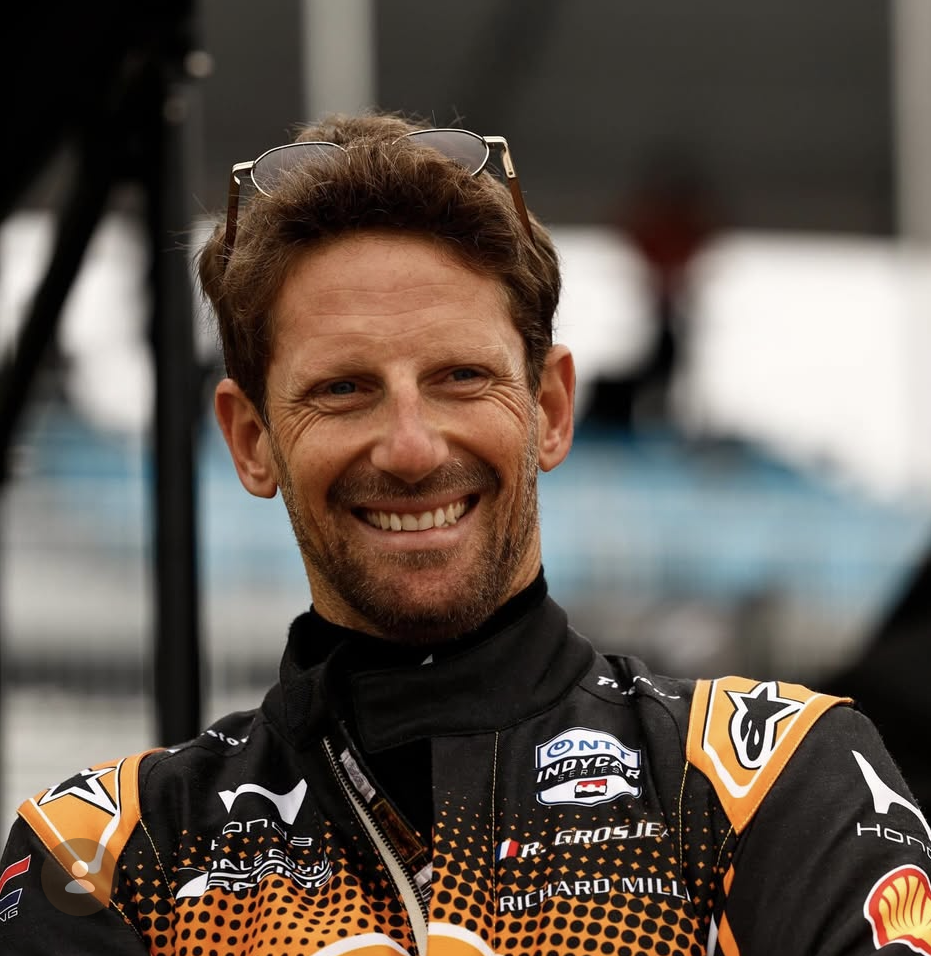
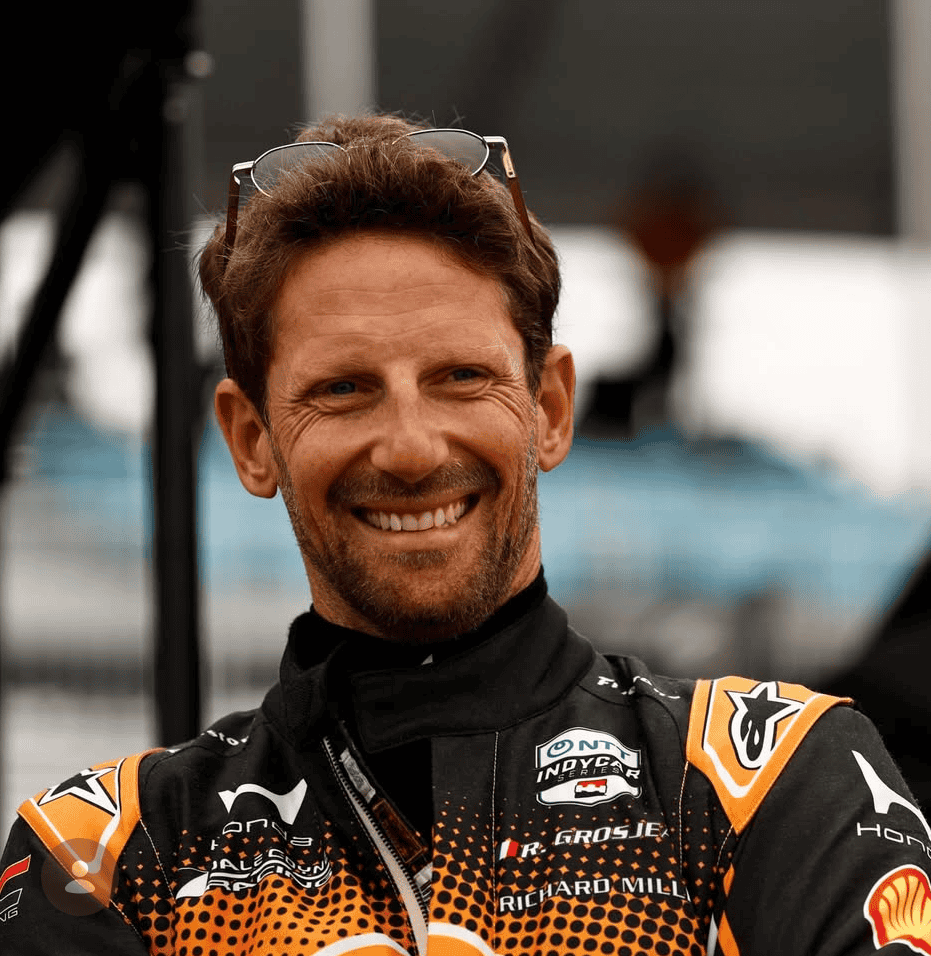
Replace ESTX Venture GmbH with ESTX Georgia LLC as sole operator (footer, FAQ, contacts, legal pages, EN+DE); compress brand images

diff --git a/index.html b/index.html
@@ -860,11 +860,11 @@ option{background:#0a1628;}
         <div style="display:flex;flex-direction:column;gap:18px;">
           <div style="display:flex;gap:14px;align-items:center;">
             <div style="width:42px;height:42px;background:rgba(255,255,255,0.07);border:1px solid rgba(255,255,255,0.1);border-radius:10px;display:flex;align-items:center;justify-content:center;flex-shrink:0;"><svg width="17" height="17" viewBox="0 0 24 24" fill="none" stroke="rgba(255,255,255,0.6)" stroke-width="2"><path d="M21 10c0 7-9 13-9 13s-9-6-9-13a9 9 0 0118 0z"/><circle cx="12" cy="10" r="3"/></svg></div>
-            <div><div style="font-size:0.72rem;color:rgba(255,255,255,0.35);margin-bottom:2px;" data-i18n="contact_office_label">Registered Office</div><div style="font-size:0.88rem;color:rgba(255,255,255,0.8);">Bangarten 10, FL-9490 Vaduz, Liechtenstein</div></div>
+            <div><div style="font-size:0.72rem;color:rgba(255,255,255,0.35);margin-bottom:2px;" data-i18n="contact_office_label">Registered Office</div><div style="font-size:0.88rem;color:rgba(255,255,255,0.8);" data-i18n="contact_office_value">Avtomshenebeli St. N 88 (Plot N01/298), Free Industrial Zone, Kutaisi, Georgia</div></div>
           </div>
           <div style="display:flex;gap:14px;align-items:center;">
             <div style="width:42px;height:42px;background:rgba(255,255,255,0.07);border:1px solid rgba(255,255,255,0.1);border-radius:10px;display:flex;align-items:center;justify-content:center;flex-shrink:0;"><svg width="17" height="17" viewBox="0 0 24 24" fill="none" stroke="rgba(255,255,255,0.6)" stroke-width="2"><path d="M12 22s8-4 8-10V5l-8-3-8 3v7c0 6 8 10 8 10z"/></svg></div>
-            <div><div style="font-size:0.72rem;color:rgba(255,255,255,0.35);margin-bottom:2px;" data-i18n="contact_reg_label">Regulatory</div><div style="font-size:0.88rem;color:rgba(255,255,255,0.8);" data-i18n="contact_reg_value">VASP License · ESTX Georgia LLC · Georgia</div></div>
+            <div><div style="font-size:0.72rem;color:rgba(255,255,255,0.35);margin-bottom:2px;" data-i18n="contact_reg_label">Regulatory</div><div style="font-size:0.88rem;color:rgba(255,255,255,0.8);" data-i18n="contact_reg_value">ESTX Georgia LLC · VASP License L37-2026 · National Bank of Georgia</div></div>
           </div>
         </div>
       </div>
@@ -941,7 +941,7 @@ option{background:#0a1628;}
     </div>
 
     <div style="padding:20px 0;border-top:1px solid rgba(255,255,255,0.06);margin-bottom:16px;">
-      <p style="font-size:0.73rem;color:rgba(255,255,255,0.22);line-height:1.7;" data-i18n-html="footer_legal"><strong style="color:rgba(255,255,255,0.35);">ESTX Venture GmbH</strong> — Bangarten 10, FL-9490 Vaduz, Liechtenstein. Operated under license by <strong style="color:rgba(255,255,255,0.35);">ESTX Georgia LLC</strong> (License number: L37-2026 / Registration number: 412800036), incorporated in Georgia, Kutaisi city, Avtomshenebeli Street N 88. Trading involves significant risk.</p>
+      <p style="font-size:0.73rem;color:rgba(255,255,255,0.22);line-height:1.7;" data-i18n-html="footer_legal"><strong style="color:rgba(255,255,255,0.35);">ESTX Georgia LLC</strong> — Avtomshenebeli St. N 88 (Plot N01/298), Free Industrial Zone, Kutaisi, Georgia. Regulated as a Virtual Asset Service Provider by the National Bank of Georgia (VASP License L37-2026 · Registration number 412800036). ESTX Georgia LLC directly provides and operates the platform infrastructure, exchange services, and custody. Trading involves significant risk.</p>
     </div>
     <div style="display:flex;justify-content:space-between;flex-wrap:wrap;gap:8px;">
       <div style="font-size:0.72rem;color:rgba(255,255,255,0.18);">© 2026 ESTX Exchange. All rights reserved.</div>
@@ -1077,7 +1077,7 @@ loadMarkets();
 const FAQS=[
   {q:'What is ESTX Exchange?',a:'ESTX is a regulated digital asset exchange that stands apart from conventional crypto platforms. While we support all major cryptocurrencies like BTC, ETH, SOL, XRP, and BNB, our core focus is on listing new token projects, curated memecoins, and security tokens. Our unique three-tier market structure — Venture, Market, and Prime — provides clear segmentation for different asset classes and investor profiles.'},
   {q:'How is ESTX different from Binance, Coinbase or other exchanges?',a:'ESTX is specifically designed to serve projects and communities that are underserved by major exchanges. We provide an accessible, structured listing path for token issuers who cannot afford the high fees and long waiting periods at platforms like Binance or Coinbase — while maintaining rigorous screening to ensure project quality and legitimacy. Our three-tier structure gives every project the right market environment.'},
-  {q:'Is ESTX a regulated exchange?',a:'Yes. ESTX is operated and managed by ESTX Venture GmbH, headquartered at Bangarten 10, FL-9490 Vaduz, Liechtenstein. The exchange operates under a Virtual Assets Service Provider (VASP) license held by ESTX Georgia LLC (License number: L37-2026), a company incorporated in Georgia with Registration Number 412800036. This ensures full regulatory compliance and operational transparency.'},
+  {q:'Is ESTX a regulated exchange?',a:'Yes. ESTX.Exchange is operated by ESTX Georgia LLC, a company incorporated in Georgia (Registration number 412800036) with its registered office at Avtomshenebeli St. N 88 (Plot N01/298), Free Industrial Zone, Kutaisi, Georgia. ESTX Georgia LLC is regulated as a Virtual Asset Service Provider (VASP) by the National Bank of Georgia under license number L37-2026, and directly provides and operates the platform infrastructure, exchange services, and custody. This ensures full regulatory compliance and operational transparency.'},
   {q:'How can I buy cryptocurrency on ESTX?',a:'Getting started is simple: (1) Create an account with your email and country of residence, (2) Complete identity verification (KYC) by uploading required documents, (3) Add your payment method — credit card, debit card, or bank transfer, (4) Start buying Bitcoin, Ethereum, Solana and 200+ other cryptocurrencies using USD, EUR, GBP, AUD, and over 48 additional local currencies.'},
   {q:'What is the ESTX Token?',a:'The ESTX Token is the native utility token of the ESTX Exchange ecosystem. Token holders benefit from reduced trading fees, governance participation, exclusive access to new token listings and launchpad events, and staking rewards. The official ESTX Token launch is scheduled for October 15, 2026.'},
   {q:'How do I list my token on ESTX?',a:'ESTX provides an accessible and structured listing process. Visit our "Apply for Listing" page to submit your project for review. Our team evaluates every submission through a comprehensive screening process — covering project legitimacy, team background, tokenomics, and community — before approving listings on the appropriate market tier (Venture, Market, or Prime).'},
@@ -1432,7 +1432,7 @@ const i18n = {
     faq_q1: 'How is ESTX different from Binance, Coinbase or other exchanges?',
     faq_a1: 'ESTX is specifically designed to serve projects and communities that are underserved by major exchanges. We provide an accessible, structured listing path for token issuers who cannot afford the high fees and long waiting periods at platforms like Binance or Coinbase \u2014 while maintaining rigorous screening to ensure project quality and legitimacy. Our three-tier structure gives every project the right market environment.',
     faq_q2: 'Is ESTX a regulated exchange?',
-    faq_a2: 'Yes. ESTX is operated and managed by ESTX Venture GmbH, headquartered at Bangarten 10, FL-9490 Vaduz, Liechtenstein. The exchange operates under a Virtual Assets Service Provider (VASP) license held by ESTX Georgia LLC (License number: L37-2026), a company incorporated in Georgia with Registration Number 412800036. This ensures full regulatory compliance and operational transparency.',
+    faq_a2: 'Yes. ESTX.Exchange is operated by ESTX Georgia LLC, a company incorporated in Georgia (Registration number 412800036) with its registered office at Avtomshenebeli St. N 88 (Plot N01/298), Free Industrial Zone, Kutaisi, Georgia. ESTX Georgia LLC is regulated as a Virtual Asset Service Provider (VASP) by the National Bank of Georgia under license number L37-2026, and directly provides and operates the platform infrastructure, exchange services, and custody. This ensures full regulatory compliance and operational transparency.',
     faq_q3: 'How can I buy cryptocurrency on ESTX?',
     faq_a3: 'Getting started is simple: (1) Create an account with your email and country of residence, (2) Complete identity verification (KYC) by uploading required documents, (3) Add your payment method \u2014 credit card, debit card, or bank transfer, (4) Start buying Bitcoin, Ethereum, Solana and 200+ other cryptocurrencies using USD, EUR, GBP, AUD, and over 48 additional local currencies.',
     faq_q4: 'What is the ESTX Token?',
@@ -1445,7 +1445,8 @@ const i18n = {
     contact_label: 'Get in Touch', contact_heading: 'Let\u2019s Build the Future of Finance Together',
     contact_subtitle: 'Whether you\u2019re looking to list your token, explore institutional services, or simply have questions \u2014 our team is ready.',
     contact_office_label: 'Registered Office', contact_reg_label: 'Regulatory',
-    contact_reg_value: 'VASP License \u00B7 ESTX Georgia LLC \u00B7 Georgia',
+    contact_office_value: 'Avtomshenebeli St. N 88 (Plot N01/298), Free Industrial Zone, Kutaisi, Georgia',
+    contact_reg_value: 'ESTX Georgia LLC \u00B7 VASP License L37-2026 \u00B7 National Bank of Georgia',
     form_name: 'Full Name *', form_email: 'Email *',
     form_phone: 'Phone <span style="opacity:0.5;">(Optional)</span>',
     form_subject: 'Subject', form_message: 'Message *',
@@ -1464,7 +1465,7 @@ const i18n = {
     footer_contact: 'Contact Us',
     footer_terms: 'Terms of Use', footer_privacy: 'Privacy Policy', footer_risk: 'Risk Disclosure',
     footer_security: 'Security', footer_about: 'About Us',
-    footer_legal: '<strong style="color:rgba(255,255,255,0.35);">ESTX Venture GmbH</strong> \u2014 Bangarten 10, FL-9490 Vaduz, Liechtenstein. Operated under license by <strong style="color:rgba(255,255,255,0.35);">ESTX Georgia LLC</strong> (License number: L37-2026 / Registration number: 412800036), incorporated in Georgia, Kutaisi city, Avtomshenebeli Street N 88. Trading involves significant risk.',
+    footer_legal: '<strong style="color:rgba(255,255,255,0.35);">ESTX Georgia LLC</strong> \u2014 Avtomshenebeli St. N 88 (Plot N01/298), Free Industrial Zone, Kutaisi, Georgia. Regulated as a Virtual Asset Service Provider by the National Bank of Georgia (VASP License L37-2026 \u00B7 Registration number 412800036). ESTX Georgia LLC directly provides and operates the platform infrastructure, exchange services, and custody. Trading involves significant risk.',
     // Cookie
     cookie_title: 'We value your privacy',
     cookie_desc: 'We use cookies to improve your experience, analyse traffic, and personalise content. You can choose to accept all or only essential cookies.',
@@ -1588,7 +1589,7 @@ const i18n = {
     faq_q1: 'Wie unterscheidet sich ESTX von Binance, Coinbase oder anderen B\u00F6rsen?',
     faq_a1: 'ESTX wurde speziell f\u00FCr Projekte und Communities entwickelt, die von gro\u00DFen B\u00F6rsen unterversorgt werden. Wir bieten einen zug\u00E4nglichen, strukturierten Listing-Weg f\u00FCr Token-Emittenten, die sich die hohen Geb\u00FChren und langen Wartezeiten bei Plattformen wie Binance oder Coinbase nicht leisten k\u00F6nnen \u2014 bei gleichzeitig strenger Pr\u00FCfung zur Sicherstellung der Projektqualit\u00E4t und Legitimit\u00E4t. Unsere Drei-Stufen-Struktur bietet jedem Projekt die richtige Marktumgebung.',
     faq_q2: 'Ist ESTX eine regulierte B\u00F6rse?',
-    faq_a2: 'Ja. ESTX wird von der ESTX Venture GmbH betrieben und verwaltet, mit Sitz in Bangarten 10, FL-9490 Vaduz, Liechtenstein. Die B\u00F6rse operiert unter einer VASP-Lizenz (Virtual Assets Service Provider), gehalten von der ESTX Georgia LLC (Lizenznummer: L37-2026), einem in Georgien eingetragenen Unternehmen mit der Registrierungsnummer 412800036. Dies gew\u00E4hrleistet vollst\u00E4ndige regulatorische Konformit\u00E4t und operationelle Transparenz.',
+    faq_a2: 'Ja. ESTX.Exchange wird von der ESTX Georgia LLC betrieben, einem in Georgien eingetragenen Unternehmen (Registrierungsnummer 412800036) mit Sitz in Avtomshenebeli Str. N 88 (Grundst\u00FCck N01/298), Freie Industriezone, Kutaissi, Georgien. Die ESTX Georgia LLC ist von der Nationalbank von Georgien unter der Lizenznummer L37-2026 als Virtual Asset Service Provider (VASP) reguliert und stellt die Plattforminfrastruktur, die Handelsdienstleistungen und die Verwahrung unmittelbar selbst bereit. Dies gew\u00E4hrleistet vollst\u00E4ndige regulatorische Konformit\u00E4t und operationelle Transparenz.',
     faq_q3: 'Wie kann ich auf ESTX Kryptow\u00E4hrungen kaufen?',
     faq_a3: 'Der Einstieg ist einfach: (1) Erstelle ein Konto mit deiner E-Mail und deinem Wohnsitzland, (2) Schlie\u00DFe die Identit\u00E4tsverifizierung (KYC) durch Hochladen der erforderlichen Dokumente ab, (3) F\u00FCge deine Zahlungsmethode hinzu \u2014 Kreditkarte, Debitkarte oder Bank\u00FCberweisung, (4) Beginne mit dem Kauf von Bitcoin, Ethereum, Solana und \u00FCber 200 weiteren Kryptow\u00E4hrungen mit USD, EUR, GBP, AUD und \u00FCber 48 zus\u00E4tzlichen lokalen W\u00E4hrungen.',
     faq_q4: 'Was ist der ESTX Token?',
@@ -1601,7 +1602,8 @@ const i18n = {
     contact_label: 'Kontakt', contact_heading: 'Gemeinsam die Zukunft der Finanzwelt gestalten',
     contact_subtitle: 'Ob du deinen Token listen lassen, institutionelle Dienste erkunden oder einfach Fragen stellen m\u00F6chtest \u2014 unser Team ist bereit.',
     contact_office_label: 'Firmensitz', contact_reg_label: 'Regulierung',
-    contact_reg_value: 'VASP-Lizenz \u00B7 ESTX Georgia LLC \u00B7 Georgien',
+    contact_office_value: 'Avtomshenebeli Str. N 88 (Grundst\u00FCck N01/298), Freie Industriezone, Kutaissi, Georgien',
+    contact_reg_value: 'ESTX Georgia LLC \u00B7 VASP-Lizenz L37-2026 \u00B7 Nationalbank von Georgien',
     form_name: 'Vollst\u00E4ndiger Name *', form_email: 'E-Mail *',
     form_phone: 'Telefon <span style="opacity:0.5;">(Optional)</span>',
     form_subject: 'Betreff', form_message: 'Nachricht *',
@@ -1620,7 +1622,7 @@ const i18n = {
     footer_contact: 'Kontakt',
     footer_terms: 'Nutzungsbedingungen', footer_privacy: 'Datenschutzerkl\u00E4rung', footer_risk: 'Risikohinweis',
     footer_security: 'Sicherheit', footer_about: '\u00DCber uns',
-    footer_legal: '<strong style="color:rgba(255,255,255,0.35);">ESTX Venture GmbH</strong> \u2014 Bangarten 10, FL-9490 Vaduz, Liechtenstein. Betrieben unter Lizenz von <strong style="color:rgba(255,255,255,0.35);">ESTX Georgia LLC</strong> (Lizenznummer: L37-2026 / Registrierungsnummer: 412800036), eingetragen in Georgien, Kutaisi, Avtomshenebeli Stra\u00DFe Nr. 88. Der Handel ist mit erheblichen Risiken verbunden.',
+    footer_legal: '<strong style="color:rgba(255,255,255,0.35);">ESTX Georgia LLC</strong> \u2014 Avtomshenebeli Str. N 88 (Grundst\u00FCck N01/298), Freie Industriezone, Kutaissi, Georgien. Als Virtual Asset Service Provider von der Nationalbank von Georgien reguliert (VASP-Lizenz L37-2026 \u00B7 Registrierungsnummer 412800036). Die ESTX Georgia LLC stellt die Plattforminfrastruktur, die Handelsdienstleistungen und die Verwahrung unmittelbar selbst bereit. Der Handel ist mit erheblichen Risiken verbunden.',
     // Cookie
     cookie_title: 'Wir sch\u00E4tzen Ihre Privatsph\u00E4re',
     cookie_desc: 'Wir verwenden Cookies, um Ihr Erlebnis zu verbessern, den Datenverkehr zu analysieren und Inhalte zu personalisieren. Sie k\u00F6nnen alle oder nur essenzielle Cookies akzeptieren.',

diff --git a/privacy.html b/privacy.html
@@ -162,10 +162,11 @@
 <header class="doc-head">
   <div class="eyebrow">Legal</div>
   <h1>Privacy Policy</h1>
-  <p class="updated">Last updated: <strong>June 12, 2026</strong></p>
+  <p class="updated">Last updated: <strong>August 24, 2026</strong></p>
   <div class="intro">
-    <p>This Privacy Policy explains how ESTX Venture GmbH (&quot;ESTX&quot;, &quot;we&quot;, &quot;us&quot;) collects, uses, stores, shares, and protects personal data when you visit ESTX.Exchange, create an account, or use any of our products and services (collectively, the &quot;Platform&quot;).</p>
-    <p>We are committed to protecting your privacy and handling your personal data in accordance with applicable data protection laws, including the EU General Data Protection Regulation (GDPR) as applicable in Liechtenstein.</p>
+    <p>This Privacy Policy explains how ESTX Georgia LLC (&quot;ESTX&quot;, &quot;we&quot;, &quot;us&quot;), a limited liability company incorporated in Georgia under registration number 412800036 with its registered office at Avtomshenebeli St. N 88 (Plot N01/298), Free Industrial Zone, Kutaisi, Georgia, collects, uses, stores, shares, and protects personal data when you visit ESTX.Exchange, create an account, or use any of our products and services (collectively, the &quot;Platform&quot;).</p>
+    <p>ESTX Georgia LLC is the sole Data Controller for all personal data processed through the Platform, including data processed for identity verification (KYC), anti-money laundering (AML) checks, and transaction monitoring. You submit your personal data directly to ESTX Georgia LLC.</p>
+    <p>We are committed to protecting your privacy and handling your personal data in accordance with Georgian data protection law and, where you are located in the European Union or the European Economic Area, the EU General Data Protection Regulation (GDPR), which applies to our processing of your personal data under Article 3(2) GDPR.</p>
     <p>By using the Platform, you acknowledge that you have read and understood this Privacy Policy. If you do not agree with it, you must not use the Platform.</p>
   </div>
 </header>
@@ -196,11 +197,12 @@
 <main>
 <section id="data-controller">
 <h2><span class="num">1.</span>Data Controller</h2>
-<p>The data controller responsible for your personal data is:</p>
-<p class="address">ESTX Venture GmbH</p>
-<p class="address">Bangarten 10</p>
-<p class="address">FL-9490 Vaduz</p>
-<p class="address">Liechtenstein</p>
+<p>The sole data controller responsible for all personal data processed through the Platform, including KYC/AML and transaction monitoring data, is:</p>
+<p class="address">ESTX Georgia LLC</p>
+<p class="address">Avtomshenebeli St. N 88 (Plot N01/298)</p>
+<p class="address">Free Industrial Zone</p>
+<p class="address">Kutaisi, Georgia</p>
+<p class="address">Registration number 412800036</p>
 <p>For privacy-related inquiries, please use the contact details and support channels published on ESTX.Exchange.</p>
 </section>
 <section id="personal-data-we-collect">
@@ -247,8 +249,9 @@
 </section>
 <section id="international-data-transfers">
 <h2><span class="num">6.</span>International Data Transfers</h2>
-<p>Your personal data may be transferred to and processed in countries outside Liechtenstein and the European Economic Area, including jurisdictions where our service providers or group entities operate.</p>
-<p>Where such transfers occur, we implement appropriate safeguards, such as adequacy decisions, standard contractual clauses, or other lawful transfer mechanisms, to ensure your data remains protected.</p>
+<p>You submit your personal data directly to ESTX Georgia LLC, a controller established in Georgia, which is outside the European Union and the European Economic Area. Your personal data is therefore collected and processed in Georgia.</p>
+<p>Georgia is not currently covered by a European Commission adequacy decision. Where we process the personal data of users located in the EU/EEA, we do so in accordance with Georgian data protection law and the applicable requirements of the GDPR, and we apply technical and organizational safeguards aligned with recognized international information security standards.</p>
+<p>Your personal data may also be transferred to and processed by our service providers in other countries. Where such transfers occur, we implement appropriate safeguards, such as standard contractual clauses or other lawful transfer mechanisms, to ensure your data remains protected.</p>
 </section>
 <section id="data-retention">
 <h2><span class="num">7.</span>Data Retention</h2>
@@ -271,7 +274,7 @@
 <p>The right to data portability for data you have provided to us.</p>
 <p>The right to object to processing based on legitimate interests, including profiling.</p>
 <p>The right to withdraw consent at any time, without affecting the lawfulness of processing carried out before withdrawal.</p>
-<p>The right to lodge a complaint with a supervisory authority, in particular the Liechtenstein Data Protection Authority (Datenschutzstelle).</p>
+<p>The right to lodge a complaint with a supervisory authority, in particular the Personal Data Protection Service of Georgia. If you are located in the European Union or the European Economic Area, you may also lodge a complaint with the supervisory authority of your country of residence.</p>
 <p>Please note that certain rights may be limited where we are subject to legal retention or compliance obligations, including AML/CTF requirements.</p>
 </section>
 <section id="cookies-and-tracking-technologies">
@@ -301,10 +304,11 @@
 </section>
 <section id="contact">
 <h2><span class="num">15.</span>Contact</h2>
-<p class="address">ESTX Venture GmbH</p>
-<p class="address">Bangarten 10</p>
-<p class="address">FL-9490 Vaduz</p>
-<p class="address">Liechtenstein</p>
+<p class="address">ESTX Georgia LLC</p>
+<p class="address">Avtomshenebeli St. N 88 (Plot N01/298)</p>
+<p class="address">Free Industrial Zone</p>
+<p class="address">Kutaisi, Georgia</p>
+<p class="address">Registration number 412800036</p>
 <p>For privacy-related inquiries, data subject requests, or questions about this Privacy Policy, please use the contact details and support channels published on ESTX.Exchange.</p>
 </section>
 </main>
@@ -318,7 +322,7 @@
 
 <footer>
   <div class="footer-inner">
-    <div class="copy">&copy; 2026 ESTX.Exchange &middot; ESTX Venture GmbH, Vaduz, Liechtenstein</div>
+    <div class="copy">&copy; 2026 ESTX.Exchange &middot; ESTX Georgia LLC, Kutaisi, Georgia</div>
     <nav>
       <a href="index.html">Home</a>
       <a href="terms.html">Terms of Use</a>

diff --git a/terms.html b/terms.html
@@ -162,10 +162,11 @@
 <header class="doc-head">
   <div class="eyebrow">Legal</div>
   <h1>Terms of Use</h1>
-  <p class="updated">Last updated: <strong>April 1, 2026</strong></p>
+  <p class="updated">Last updated: <strong>August 24, 2026</strong></p>
   <div class="intro">
     <p>These Terms of Use (“Terms”) govern your access to and use of the website, platform, applications, products, services, content, tools, and features made available through ESTX.Exchange (the “Platform”).</p>
-    <p>The Platform is operated by ESTX Venture GmbH, Vaduz, Liechtenstein, and may utilize affiliated or licensed service providers, including regulated virtual asset service provider infrastructure and third-party service providers, to facilitate certain services.</p>
+    <p>The Platform is operated by ESTX Georgia LLC, a limited liability company incorporated in Georgia under registration number 412800036, with its registered office at Avtomshenebeli St. N 88 (Plot N01/298), Free Industrial Zone, Kutaisi, Georgia. ESTX Georgia LLC is regulated as a Virtual Asset Service Provider (VASP) by the National Bank of Georgia under license number L37-2026.</p>
+    <p>ESTX Georgia LLC is the sole operator of the Platform and the sole provider of the Services. It directly provides and operates the platform infrastructure, exchange services, and custody. It may engage vendors and partners for ancillary functions such as banking, fiat payment processing, market data, and compliance screening.</p>
     <p>By accessing, registering for, or using the Platform, you confirm that you have read, understood, and accepted these Terms, together with our Privacy Policy, Risk Disclosure Statement, AML/KYC rules, listing standards, trading rules, and any other policies or guidelines published on the Platform from time to time (collectively, the “Agreement”). If you do not agree, you must not access or use the Platform.</p>
   </div>
 </header>
@@ -210,7 +211,7 @@
 <h2><span class="num">1.</span>Definitions</h2>
 <p>For purposes of these Terms:</p>
 <p>“Platform” means ESTX.Exchange, including its website, user interface, mobile or web applications, APIs, services, tools, and related infrastructure.</p>
-<p>“Company” means ESTX Venture GmbH and, where applicable, its affiliates, service providers, contractors, technology partners, licensed infrastructure providers, and authorized operating entities.</p>
+<p>“Company”, “ESTX”, “we”, or “us” means ESTX Georgia LLC, the sole operator of the Platform and provider of the Services, and, where applicable, its affiliates, employees, contractors, and vendors acting on its behalf.</p>
 <p>“User” or “you” means any individual or legal entity that accesses or uses the Platform.</p>
 <p>“Digital Assets” means cryptocurrencies, utility tokens, memecoins, tokenized assets, security tokens where supported, and any other blockchain-based digital representation of value supported by the Platform.</p>
 <p>“Supported Assets” means those Digital Assets that the Platform makes available from time to time in its sole discretion.</p>
@@ -289,8 +290,8 @@
 </section>
 <section id="third-party-providers-and-partners">
 <h2><span class="num">10.</span>Third-Party Providers and Partners</h2>
-<p>The Platform may rely on third-party service providers, including:</p>
-<ul><li>liquidity providers</li><li>market makers</li><li>banking and fiat partners</li><li>VASP infrastructure providers</li><li>blockchain analytics providers</li><li>KYC/AML vendors</li><li>custody or wallet technology providers</li><li>cloud infrastructure providers</li><li>payment processors</li></ul>
+<p>The Platform, its trading infrastructure, and custody are provided and operated by the Company itself and are not third-party services. For ancillary functions the Company may rely on third-party service providers, including:</p>
+<ul><li>liquidity providers</li><li>market makers</li><li>banking and fiat partners</li><li>blockchain analytics providers</li><li>KYC/AML vendors</li><li>custody or wallet technology providers</li><li>cloud infrastructure providers</li><li>payment processors</li></ul>
 <p>DApps, protocols, and blockchain networks.</p>
 <p>The Company does not control all third-party services and is not responsible for the performance, solvency, legality, availability, or security of any third party.</p>
 <p>Your use of third-party services may be governed by separate terms and conditions.</p>
@@ -398,8 +399,8 @@
 </section>
 <section id="governing-law-and-dispute-resolution">
 <h2><span class="num">25.</span>Governing Law and Dispute Resolution</h2>
-<p>These Terms shall be governed by the laws specified by the Platform in its final legal framework and jurisdiction notice published on the Platform from time to time.</p>
-<p>Any dispute, claim, or controversy arising out of or in connection with these Terms or the Platform shall be resolved in the forum, court, or arbitration venue designated by the Company in the final legal version applicable to the relevant contracting entity and service offering.</p>
+<p>These Terms, and any non-contractual obligations arising out of or in connection with them, are governed by and construed in accordance with the laws of Georgia.</p>
+<p>Any dispute, claim, or controversy arising out of or in connection with these Terms or the Platform shall be subject to the exclusive jurisdiction of the competent courts of Kutaisi, Georgia.</p>
 </section>
 <section id="general-provisions">
 <h2><span class="num">26.</span>General Provisions</h2>
@@ -411,10 +412,11 @@
 </section>
 <section id="contact">
 <h2><span class="num">27.</span>Contact</h2>
-<p class="address">ESTX Venture GmbH</p>
-<p class="address">Bangarten 10</p>
-<p class="address">FL-9490 Vaduz</p>
-<p class="address">Liechtenstein</p>
+<p class="address">ESTX Georgia LLC</p>
+<p class="address">Avtomshenebeli St. N 88 (Plot N01/298)</p>
+<p class="address">Free Industrial Zone</p>
+<p class="address">Kutaisi, Georgia</p>
+<p class="address">VASP License L37-2026 · National Bank of Georgia</p>
 <p>For legal, compliance, or support inquiries, please use the contact details and support channels published on ESTX.Exchange.</p>
 </section>
 </main>
@@ -428,7 +430,7 @@
 
 <footer>
   <div class="footer-inner">
-    <div class="copy">&copy; 2026 ESTX.Exchange &middot; ESTX Venture GmbH, Vaduz, Liechtenstein</div>
+    <div class="copy">&copy; 2026 ESTX.Exchange &middot; ESTX Georgia LLC, Kutaisi, Georgia</div>
     <nav>
       <a href="index.html">Home</a>
       <a href="terms.html">Terms of Use</a>

diff --git a/risk-disclosure.html b/risk-disclosure.html
@@ -162,9 +162,10 @@
 <header class="doc-head">
   <div class="eyebrow">Legal</div>
   <h1>Risk Disclosure Statement</h1>
-  <p class="updated">Last updated: <strong>April 1, 2026</strong></p>
+  <p class="updated">Last updated: <strong>August 24, 2026</strong></p>
   <div class="intro">
     <p>Before accessing, using, or transacting on ESTX.Exchange (the “Platform”), you must carefully review and fully understand the risks associated with digital assets, tokenized instruments, and related services.</p>
+    <p>The Platform is operated by ESTX Georgia LLC, a company incorporated in Georgia under registration number 412800036, regulated as a Virtual Asset Service Provider (VASP) by and under the supervision of the National Bank of Georgia under license number L37-2026.</p>
     <p>This Risk Disclosure Statement outlines key risks but is not exhaustive and does not disclose all possible risks associated with the use of the Platform.</p>
     <p>You should only use the Platform if you fully understand these risks and have the financial ability to bear potential losses, including the total loss of your assets.</p>
     <p>If you are uncertain, you should seek independent legal, financial, and tax advice.</p>
@@ -183,7 +184,7 @@
       <li><a href="#cybersecurity-and-account-risks">Cybersecurity and Account Risks</a></li>
       <li><a href="#digital-asset-blockchain-risks">Digital Asset &amp; Blockchain Risks</a></li>
       <li><a href="#token-listing-risks">Token Listing Risks</a></li>
-      <li><a href="#regulatory-and-legal-risks">Regulatory and Legal Risks</a></li>
+      <li><a href="#regulatory-and-legal-risks">Regulatory Status and Legal Risks</a></li>
       <li><a href="#counterparty-and-liquidity-risks">Counterparty and Liquidity Risks</a></li>
       <li><a href="#third-party-service-risks">Third-Party Service Risks</a></li>
       <li><a href="#suspension-delisting-and-service-changes">Suspension, Delisting, and Service Changes</a></li>
@@ -256,7 +257,16 @@
 <p>ESTX may suspend or delist any token at any time.</p>
 </section>
 <section id="regulatory-and-legal-risks">
-<h2><span class="num">8.</span>Regulatory and Legal Risks</h2>
+<h2><span class="num">8.</span>Regulatory Status and Legal Risks</h2>
+<h3><span class="num">8.1</span>Operator and License</h3>
+<p>The Platform is operated by ESTX Georgia LLC, a company incorporated in Georgia under registration number 412800036, with its registered office at Avtomshenebeli St. N 88 (Plot N01/298), Free Industrial Zone, Kutaisi, Georgia.</p>
+<p>ESTX Georgia LLC is registered as a Virtual Asset Service Provider (VASP) and supervised by the National Bank of Georgia (NBG) under license number L37-2026. ESTX Georgia LLC directly provides and operates the platform infrastructure, exchange services, and custody.</p>
+<p>Supervision by the NBG does not guarantee the safety, solvency, performance, or value of any digital asset, and does not protect you against trading losses.</p>
+<h3><span class="num">8.2</span>Regulatory Status Outside the EU/EEA</h3>
+<p>ESTX Georgia LLC is established and licensed in Georgia. It is not authorized, registered, or supervised in the European Union or the European Economic Area, and the Platform is not passported into the EU/EEA under Regulation (EU) 2023/1114 (MiCA) or any other EU authorization.</p>
+<p>EU/EEA investor and consumer protections therefore do not apply to your use of the Platform. In particular:</p>
+<ul><li>digital assets and funds held on the Platform are not covered by any EU/EEA deposit guarantee scheme</li><li>your assets are not covered by any EU/EEA investor compensation scheme</li><li>EU/EEA financial ombudsman and out-of-court redress schemes are not available to you</li><li>your rights and remedies are those available under Georgian law and the Terms of Use</li></ul>
+<h3><span class="num">8.3</span>General Regulatory and Legal Risks</h3>
 <p>The regulatory treatment of digital assets varies globally and remains uncertain.</p>
 <p>Risks include:</p>
 <ul><li>classification of tokens as securities or regulated instruments</li><li>changes in laws or regulations</li><li>restrictions on trading or ownership</li><li>enforcement actions by authorities</li><li>limitations based on jurisdiction</li></ul>
@@ -324,7 +334,7 @@
 
 <footer>
   <div class="footer-inner">
-    <div class="copy">&copy; 2026 ESTX.Exchange &middot; ESTX Venture GmbH, Vaduz, Liechtenstein</div>
+    <div class="copy">&copy; 2026 ESTX.Exchange &middot; ESTX Georgia LLC, Kutaisi, Georgia</div>
     <nav>
       <a href="index.html">Home</a>
       <a href="terms.html">Terms of Use</a>

diff --git a/build-legal.py b/build-legal.py
@@ -2,6 +2,12 @@
 """Generate styled legal pages (terms.html, risk-disclosure.html) from the
 plain-text extractions of the source ODT documents. Re-run after the legal
 texts change:  python3 build-legal.py /tmp/terms.txt /tmp/risk.txt
+
+WARNING: terms.html, risk-disclosure.html and privacy.html were hand-edited on
+2026-08-24 for the ESTX Georgia LLC entity change (operator, licence, governing
+law, data controller, EU/EEA status). Those edits are NOT in the source ODT/txt
+files. Re-running this script will overwrite them -- update the source documents
+first, or re-apply the entity changes by hand afterwards.
 """
 import html
 import re
@@ -199,7 +205,7 @@ HEAD = """<!DOCTYPE html>
 
 <footer>
   <div class="footer-inner">
-    <div class="copy">&copy; 2026 ESTX.Exchange &middot; ESTX Venture GmbH, Vaduz, Liechtenstein</div>
+    <div class="copy">&copy; 2026 ESTX.Exchange &middot; ESTX Georgia LLC, Kutaisi, Georgia</div>
     <nav>
       <a href="index.html">Home</a>
       <a href="terms.html">Terms of Use</a>
